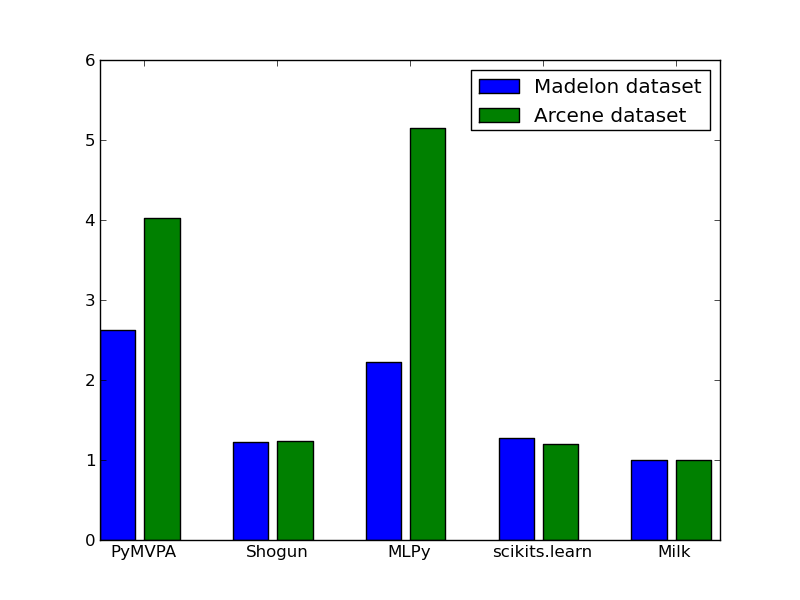
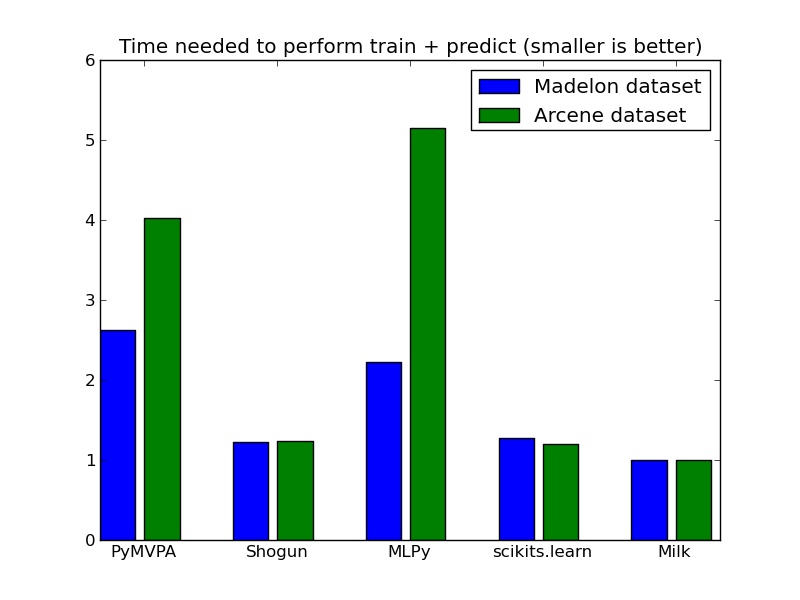
More work on the benchmarks.

Changed region(s): [[0.1562, 0.06, 0.875, 0.09]]

diff --git a/doc/plot_svm.py b/doc/plot_svm.py
@@ -1,0 +1,32 @@
+# code for the SVM bar plot
+import itertools
+import pylab as pl
+import numpy as np
+# bench on madelon
+
+color = itertools.cycle('bgrcmykbgrcmyk')
+
+### time for SVM
+##time_madelon = (12.89, 6.03, 10.88, 6.23, 4.90)
+##time_arcene = (1.37, 0.42, 1.75, 0.41, 0.34)
+##soft = ('PyMVPA', 'Shogun', 'MLPy', 'scikits.learn', 'Milk'),
+
+# time for kmeans
+time_madelon = (28.90, 6.03, 0.79, 1.36, 4.90)
+time_arcene = (1.37, 0.42, 1.75, 0.41, 0.34)
+soft = ('PyMVPA', 'MDP', 'MLPy', 'scikits.learn', 'Milk'),
+
+
+# normalize
+time_madelon = time_madelon / np.min(time_madelon)
+time_arcene = time_arcene / np.min(time_arcene)
+
+pl.bar(np.arange(0, 3 * len(time_arcene), 3), time_madelon, color='b', label='Madelon dataset')
+pl.bar(np.arange(0, 3 * len(time_arcene), 3) + 1, time_arcene, color='g', label='Arcene dataset')
+pl.legend()
+pl.xticks(np.arange(0, 3 * len(time_arcene), 3) + 1,
+          soft,
+          rotation=0)
+pl.title('Time needed to perform train + predict (smaller is better)')
+pl.show()
+

diff --git a/benchmarks/bench_kmeans.py b/benchmarks/bench_kmeans.py
@@ -36,8 +36,8 @@ def bench_shogun(X, y, T, valid):
     from shogun.Clustering import KMeans
     start = datetime.now()
     feat = RealFeatures(X.T)
-    distance=EuclidianDistance(feat, feat)
-    clf=KMeans(n_components, distance)
+    distance = EuclidianDistance(feat, feat)
+    clf = KMeans(n_components, distance)
     clf.train()
     return inertia(X, clf.get_cluster_centers()), datetime.now() - start
 

diff --git a/doc/index.rst b/doc/index.rst
@@ -9,9 +9,16 @@ major machine learning toolkits accessible in Python.
 **Last Update: June-2011**
 
 Time in seconds on the Madelon dataset for various machine learning libraries
-exposed in Python: `MLPy <https://mlpy.fbk.eu/>`_, `PyBrain
-<http://pybrain.org/>`_, PyMVPA, MDP, Shogun and MiLK. Code for running the
+exposed in Python: `MLPy <http://mlpy.fbk.eu/>`_, `PyBrain
+<http://pybrain.org/>`_, `PyMVPA <http://pymvpa.org>`_, `MDP
+<http://mdp-toolkit.sourceforge.net/>`_, `Shogun <http://shogun-toolbox.org>`_
+and `MiLK <http://luispedro.org/software/milk>`_. Code for running the
 benchmarks can be retrieved from http://github.com/scikit-learn.
+
+We also plot the score on a validation dataset for all algorithms. For
+classification algorithms, it's the fraction of correctly classified samples,
+for regression algorithms it's the mean squared error and for k-means it's the
+inertia criterion.
 
 
 Used software
@@ -25,7 +32,7 @@ We used the latest released version as of June 2011:
   - PyMVPA 0.6.0.dev
   - Shogun 0.10.0
 
-I ran it on my Intel Core2 6600, 2.40GHz CPU.
+I ran it on an Intel(R) Core(TM)2 CPU @ 1.86GHz.
 
 
 Used datasets
@@ -51,8 +58,11 @@ benchmark, Isabelle Guyon, July 2003.
 Support Vector Machines
 -----------------------
 
-We used several Support Vector Machine implementations, with RBF kernel. Code
-can be found here. All implementations use LibSVM in the background.
+We used several Support Vector Machine (RBF kernel) implementations. Numbers
+represent the time in seconds (lower is better) it took to train the dataset
+and perform prediction on a test dataset. In the plot, results are normalized
+so that the fastest method has value 1.0.
+
 
 
 .. table:: Results in scikits.learn ml-benchmarks
@@ -64,8 +74,6 @@ can be found here. All implementations use LibSVM in the background.
           Arcene             1.37             0.42       --          --             1.75             0.41         **0.34**
      ============         =======           ======     ====     =======         ========    =============         ========
 
-Numbers represent the time in seconds (lower is better) it took to train the dataset and perform
-prediction on a test dataset.
 
 
 .. figure:: bench_svm.png
@@ -73,8 +81,14 @@ prediction on a test dataset.
    :align: center
 
 
-The score by these calssfifiers in in a test dataset is. The 0.0 score in
-Shogun and Milk obviously indicates a bug in these packages or in the benchmarking routines.
+The score by these calssfifiers in in a test dataset is.
+
+.. warning::
+
+     This is just meant as a sanity check, should not be taken at face
+     value since parameters are not cross-validated, etc.
+
+.. table:: Score in scikits.learn ml-benchmarks
 
      ============         =======           ======    ====      =======         ===========       =============         ========
           Dataset          PyMVPA           Shogun    MDP       Pybrain                MLPy       scikits.learn             milk
@@ -88,70 +102,56 @@ Shogun and Milk obviously indicates a bug in these packages or in the benchmarki
 K-means
 -------
 
+bla bla bla
+
 .. table:: Results in scikits.learn ml-benchmarks
 
-     ============         =======           ======     ====     =======         ========    =============         ========
-        Benchmark          PyMVPA           Shogun      MDP     Pybrain             MLPy    scikits.learn             milk
-     ============         =======           ======     ====     =======         ========    =============         ========
-          kmeans               --               --       --          --             0.81             1.77          **1.0**
-     ============         =======           ======     ====     =======         ========    =============         ========
+     ============         =======       ======     ====     =======         ========    =============         ========
+          Dataset         PyMVPA        Shogun      MDP     Pybrain             MLPy    scikits.learn             milk
+     ============         =======       ======     ====     =======         ========    =============         ========
+          Madelon              --           --     28.9          --             0.79             1.36          **1.0**
+           Arcene              --           --       --          --             0.81             1.77          **1.0**
+     ============         =======       ======     ====     =======         ========    =============         ========
+
+
+.. figure:: bench_svm.png
+   :scale: 60%
+   :align: center
+
+
+The following table shows the inertia, criterion that the k-means algorithm minimizes.
+
+.. table:: Inertia
+
+     ============         =======           ======     ====     =======     ============    =============         ========
+          Inertia          PyMVPA           Shogun      MDP     Pybrain             MLPy    scikits.learn             milk
+     ============         =======           ======     ====     =======     ============    =============         ========
+          Madelon              --               --      --           --      739171883.6      745421891.3               --
+     ============         =======           ======     ====     =======     ============    =============         ========
 
 
 Elastic Net
 -----------
 
-Lasso (LARS algorithm)
-----------------------
-
-
-Score
------
-
-The following table shows the classification score on a validation dataset.
-For classification algorithms, it's the fraction of correctly classified
-samples, for regression algorithms it's the mean squared error and for k-means
-it's the inertia criterion.
-
-.. warning::
-
-     This is just meant as a sanity check, should not be taken at face
-     value since parameters are not cross-validated, etc.
-
-.. table:: Score in scikits.learn ml-benchmarks
-
-     ============         =======           ======    ====      =======         ===========       =============         ========
-            Score          PyMVPA           Shogun    MDP       Pybrain                MLPy       scikits.learn             milk
-     ============         =======           ======    ====      =======         ===========       =============         ========
-             svm             0.5               0.0                   --                0.65                0.65              0.0
-          kmeans               --             2.02      --      7057.02         739171883.6         745421891.3          **1.0**
-     ============         =======           ======    ====      =======         ===========       =============         ========
-
-
-
----
-To be removed
+Bla bla bla bla
 
 
 .. table:: Results in scikits.learn ml-benchmarks
 
-     ============         =======           ======    =====          =======         ========    =============         ========
-        Benchmark          PyMVPA           Shogun     MDP           Pybrain             MLPy    scikits.learn             milk
-     ============         =======           ======    =====          =======         ========    =============         ========
-             knn             1.10             0.22     0.10               --             0.21         **0.09**           1.33
-       lassolars            10.99               --       --               --             3.80             1.16
-     ============         =======           ======    =====          =======         ========    =============         ========
+     ============         =======       ======     ====     =======         ========    =============         ========
+          Dataset         PyMVPA        Shogun      MDP     Pybrain             MLPy    scikits.learn             milk
+     ============         =======       ======     ====     =======         ========    =============         ========
+          Madelon              --           --       --          --             0.81             1.77          **1.0**
+           Arcene              --           --       --          --             0.81             1.77          **1.0**
+     ============         =======       ======     ====     =======         ========    =============         ========
 
 
+.. figure:: bench_svm.png
+   :scale: 60%
+   :align: center
 
 
-.. table:: Score in scikits.learn ml-benchmarks
+Lasso (LARS algorithm)
+----------------------
 
-     ============         =======           ======    ====      =======         ========    =============         ========
-            Score          PyMVPA           Shogun    MDP       Pybrain             MLPy    scikits.learn             milk
-     ============         =======           ======    ====      =======         ========    =============         ========
-             svm             0.56              0.0                  --             0.56             0.56              0.0
-             knn             0.73             0.73    0.73          --             0.73             0.73             0.73
-        lassolars             NaN               --      --          --              NaN            61.94
-     ============         =======           ======    ====      =======         ========    =============         ========
-
-
+TODO
